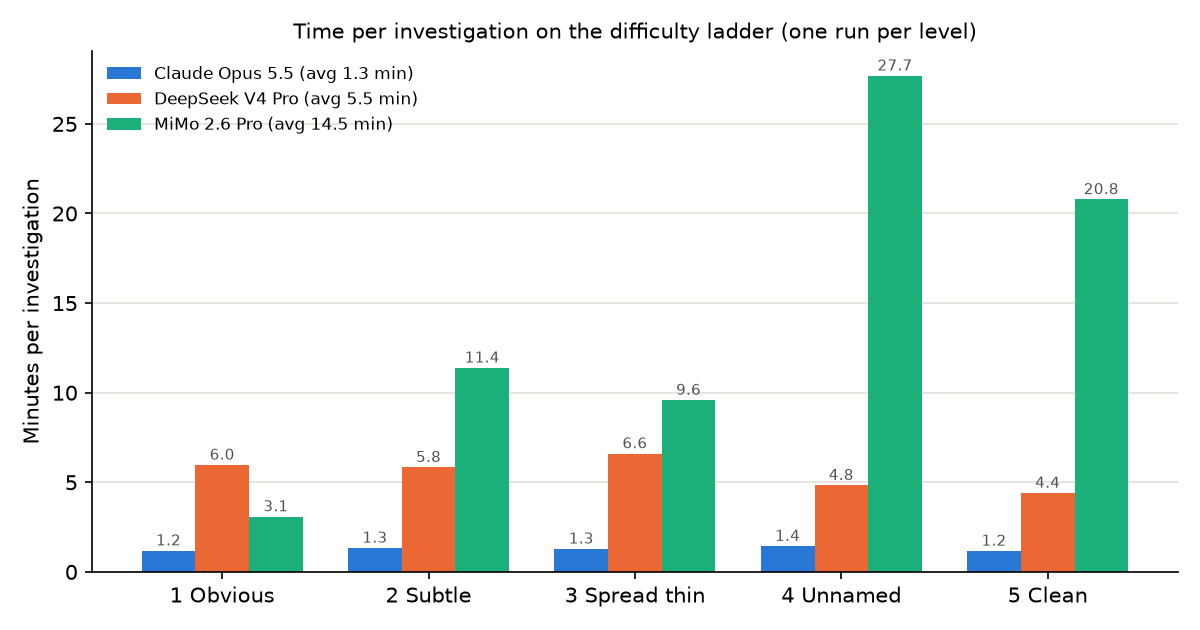
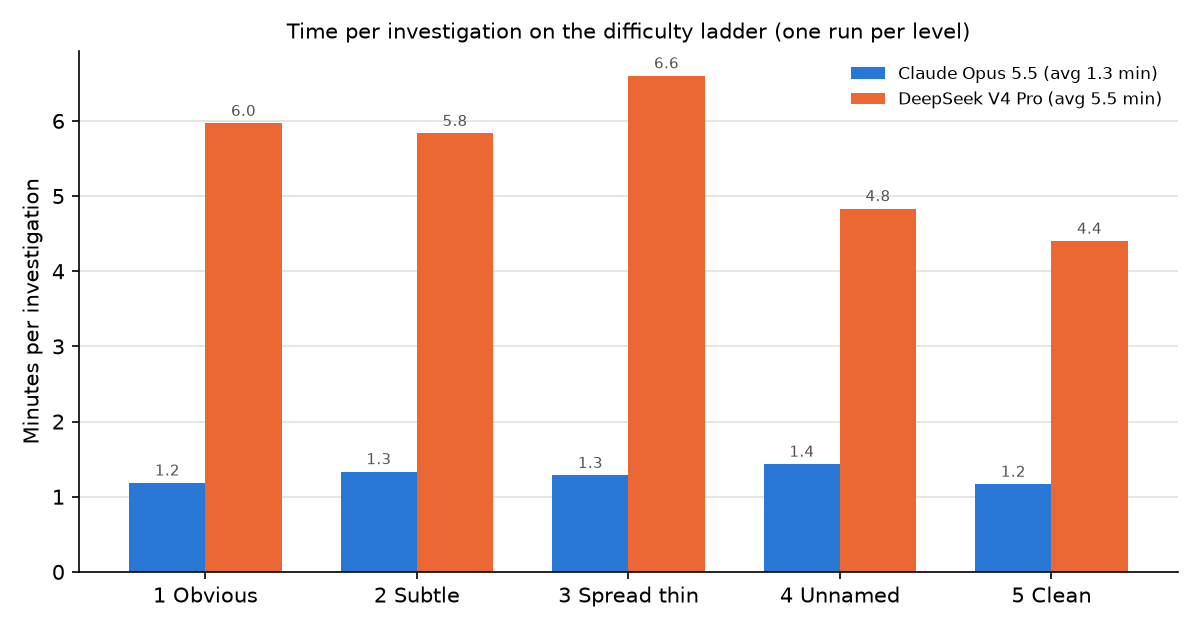
READMEs: remove MiMo from the model comparison and the speed chart

diff --git a/hapi/self-improving-agents/README.md b/hapi/self-improving-agents/README.md
@@ -105,12 +105,12 @@ The agent's model is a small registry in `agent.py` (`MODELS`), selectable in th
 | Option | Model | Notes |
 |---|---|---|
 | `claude` (default) | Claude Opus 5.5 (Anthropic API) | summarized reasoning in the trace; tool results capped at 30,000 characters |
-| `nous` | `deepseek/deepseek-v4-pro` on [Nous Portal](https://portal.nousresearch.com) (OpenAI-compatible gateway, `https://inference-api.nousresearch.com/v1`) | needs `NOUS_API_KEY` (or `NOUS_KEY`); pick any portal model with `NOUS_MODEL`, e.g. `xiaomi/mimo-v2.6-pro`; override the URL with `NOUS_BASE_URL` |
+| `nous` | `deepseek/deepseek-v4-pro` on [Nous Portal](https://portal.nousresearch.com) (OpenAI-compatible gateway, `https://inference-api.nousresearch.com/v1`) | needs `NOUS_API_KEY` (or `NOUS_KEY`); pick any portal model with `NOUS_MODEL`; override the URL with `NOUS_BASE_URL` |
 | `sonnet`, `haiku`, `gpt-4o`, `gpt-5` | Claude Sonnet 5.5, Claude Haiku 4.5, OpenAI | wired but not run on the ladder; the OpenAI options need `OPENAI_API_KEY` |
 
 ```bash
 python ladder.py --model nous                                      # DeepSeek V4 Pro
-NOUS_MODEL=xiaomi/mimo-v2.6-pro python ladder.py --model nous      # any other portal model
+NOUS_MODEL=<portal model id> python ladder.py --model nous       # any other portal model
 ```
 
 Everything else is shared: graph, tools, MCP server, prompt, trace, scoring. The portal
@@ -122,34 +122,31 @@ slow to answer, raise `LANGCHAIN_OPENAI_STREAM_CHUNK_TIMEOUT_S` (default 120 sec
 Same prompt, tools and planted data for every model; one run per level. Each cell is
 guilty providers found, then innocent providers accused.
 
-| Level | Claude Opus 5.5 | DeepSeek V4 Pro (Nous) | MiMo 2.6 Pro (Nous) |
-|---|---|---|---|
-| 1 Obvious | 2/2, 0 accused | 2/2, 0 accused | 1/2, 0 accused |
-| 2 Subtle | 2/2, 0 accused | 1/2, 6 accused | 1/2, 2 accused |
-| 3 Spread thin | 5/6, 0 accused | 4/6, 1 accused | 2/6, 2 accused |
-| 4 Unnamed | 2/3, 0 accused | 0/3, 6 accused | 3/3, 0 accused |
-| 5 Clean | 0 accused | 8 accused | 2 accused |
-| Tool calls per level | 21-33 | 47-90 | 15-74 |
-| Time per level | 70-86 s | 4.5-6.5 min | 3-28 min |
+| Level | Claude Opus 5.5 | DeepSeek V4 Pro (Nous) |
+|---|---|---|
+| 1 Obvious | 2/2, 0 accused | 2/2, 0 accused |
+| 2 Subtle | 2/2, 0 accused | 1/2, 6 accused |
+| 3 Spread thin | 5/6, 0 accused | 4/6, 1 accused |
+| 4 Unnamed | 2/3, 0 accused | 0/3, 6 accused |
+| 5 Clean | 0 accused | 8 accused |
+| Tool calls per level | 21-33 | 47-90 |
+| Time per level | 70-86 s | 4.5-6.5 min |
 
 - **Claude Opus 5.5** found 11 of 13 planted providers and accused no innocent one.
 - **DeepSeek V4 Pro** found 7 of 13 and accused 21 innocent providers, 8 of them on the
   clean level, where the prompt says there may be no fraud at all.
-- **MiMo 2.6 Pro** found 7 of 13 and accused 6 innocent providers, 2 of them on the clean
-  level. It was the only model to find all three unnamed schemes at level 4, and the weakest on levels 1-3.
 
-One run per level, so single cells (MiMo's 3/3 at level 4, for one) may be luck; the
-false-accusation gap is the consistent difference.
+One run per level, so single cells may be luck; the false-accusation gap is the consistent
+difference.
 
 **Speed.** Minutes per investigation on the same ladder runs:
 
-![Minutes per investigation by level: Opus 5.5 averages 1.3, DeepSeek V4 Pro 5.5, MiMo 2.6 Pro 14.5](docs/time_per_investigation.png)
+![Minutes per investigation by level: Opus 5.5 averages 1.3, DeepSeek V4 Pro 5.5](docs/time_per_investigation.png)
 
 Opus 5.5 took 1.2-1.4 minutes on every level. DeepSeek V4 Pro took 4.4-6.6 minutes, about 4
-times as long. MiMo 2.6 Pro averaged 14.5 minutes, about 11 times Opus, and up to 27.7 minutes
-at level 4. Tool time was about 30 seconds per investigation for every model; the rest is
-the model generating. MiMo writes up to 64,000 output tokens per investigation, about ten
-times Opus, at about 40 tokens per second through Nous. One run per level.
+times as long. Tool time was about 30 seconds per investigation for both; the rest is the
+model generating. DeepSeek took 19-26 model steps per investigation against 7-12 for Opus,
+and about 11-17 seconds per step against 3-6. One run per level.
 
 HIPAA may prevent outside LLMs from accessing the data. Anonymizing the data may remove
 the evidence signals needed for fraud analysis.

diff --git a/hapi/fraud/README.md b/hapi/fraud/README.md
@@ -96,12 +96,12 @@ The agent's model is a small registry in `agent.py` (`MODELS`), selectable in th
 | Option | Model | Notes |
 |---|---|---|
 | `claude` (default) | Claude Opus 5.5 (Anthropic API) | summarized reasoning in the trace; tool results capped at 30,000 characters |
-| `nous` | `deepseek/deepseek-v4-pro` on [Nous Portal](https://portal.nousresearch.com) (OpenAI-compatible gateway, `https://inference-api.nousresearch.com/v1`) | needs `NOUS_API_KEY` (or `NOUS_KEY`); pick any portal model with `NOUS_MODEL`, e.g. `xiaomi/mimo-v2.6-pro`; override the URL with `NOUS_BASE_URL` |
+| `nous` | `deepseek/deepseek-v4-pro` on [Nous Portal](https://portal.nousresearch.com) (OpenAI-compatible gateway, `https://inference-api.nousresearch.com/v1`) | needs `NOUS_API_KEY` (or `NOUS_KEY`); pick any portal model with `NOUS_MODEL`; override the URL with `NOUS_BASE_URL` |
 | `sonnet`, `haiku`, `gpt-4o`, `gpt-5` | Claude Sonnet 5.5, Claude Haiku 4.5, OpenAI | wired but not run on the ladder; the OpenAI options need `OPENAI_API_KEY` |
 
 ```bash
 python ladder.py --model nous                                      # DeepSeek V4 Pro
-NOUS_MODEL=xiaomi/mimo-v2.6-pro python ladder.py --model nous      # any other portal model
+NOUS_MODEL=<portal model id> python ladder.py --model nous       # any other portal model
 ```
 
 Everything else is shared: graph, tools, MCP server, prompt, trace, scoring. The portal
@@ -113,24 +113,22 @@ slow to answer, raise `LANGCHAIN_OPENAI_STREAM_CHUNK_TIMEOUT_S` (default 120 sec
 Same prompt, tools and planted data for every model; one run per level. Each cell is
 guilty providers found, then innocent providers accused.
 
-| Level | Claude Opus 5.5 | DeepSeek V4 Pro (Nous) | MiMo 2.6 Pro (Nous) |
-|---|---|---|---|
-| 1 Obvious | 2/2, 0 accused | 2/2, 0 accused | 1/2, 0 accused |
-| 2 Subtle | 2/2, 0 accused | 1/2, 6 accused | 1/2, 2 accused |
-| 3 Spread thin | 5/6, 0 accused | 4/6, 1 accused | 2/6, 2 accused |
-| 4 Unnamed | 2/3, 0 accused | 0/3, 6 accused | 3/3, 0 accused |
-| 5 Clean | 0 accused | 8 accused | 2 accused |
-| Tool calls per level | 21-33 | 47-90 | 15-74 |
-| Time per level | 70-86 s | 4.5-6.5 min | 3-28 min |
+| Level | Claude Opus 5.5 | DeepSeek V4 Pro (Nous) |
+|---|---|---|
+| 1 Obvious | 2/2, 0 accused | 2/2, 0 accused |
+| 2 Subtle | 2/2, 0 accused | 1/2, 6 accused |
+| 3 Spread thin | 5/6, 0 accused | 4/6, 1 accused |
+| 4 Unnamed | 2/3, 0 accused | 0/3, 6 accused |
+| 5 Clean | 0 accused | 8 accused |
+| Tool calls per level | 21-33 | 47-90 |
+| Time per level | 70-86 s | 4.5-6.5 min |
 
 - **Claude Opus 5.5** found 11 of 13 planted providers and accused no innocent one.
 - **DeepSeek V4 Pro** found 7 of 13 and accused 21 innocent providers, 8 of them on the
   clean level, where the prompt says there may be no fraud at all.
-- **MiMo 2.6 Pro** found 7 of 13 and accused 6 innocent providers, 2 of them on the clean
-  level. It was the only model to find all three unnamed schemes at level 4, and the weakest on levels 1-3.
 
-One run per level, so single cells (MiMo's 3/3 at level 4, for one) may be luck; the
-false-accusation gap is the consistent difference.
+One run per level, so single cells may be luck; the false-accusation gap is the consistent
+difference.
 
 HIPAA may prevent outside LLMs from accessing the data. Anonymizing the data may remove
 the evidence signals needed for fraud analysis.
